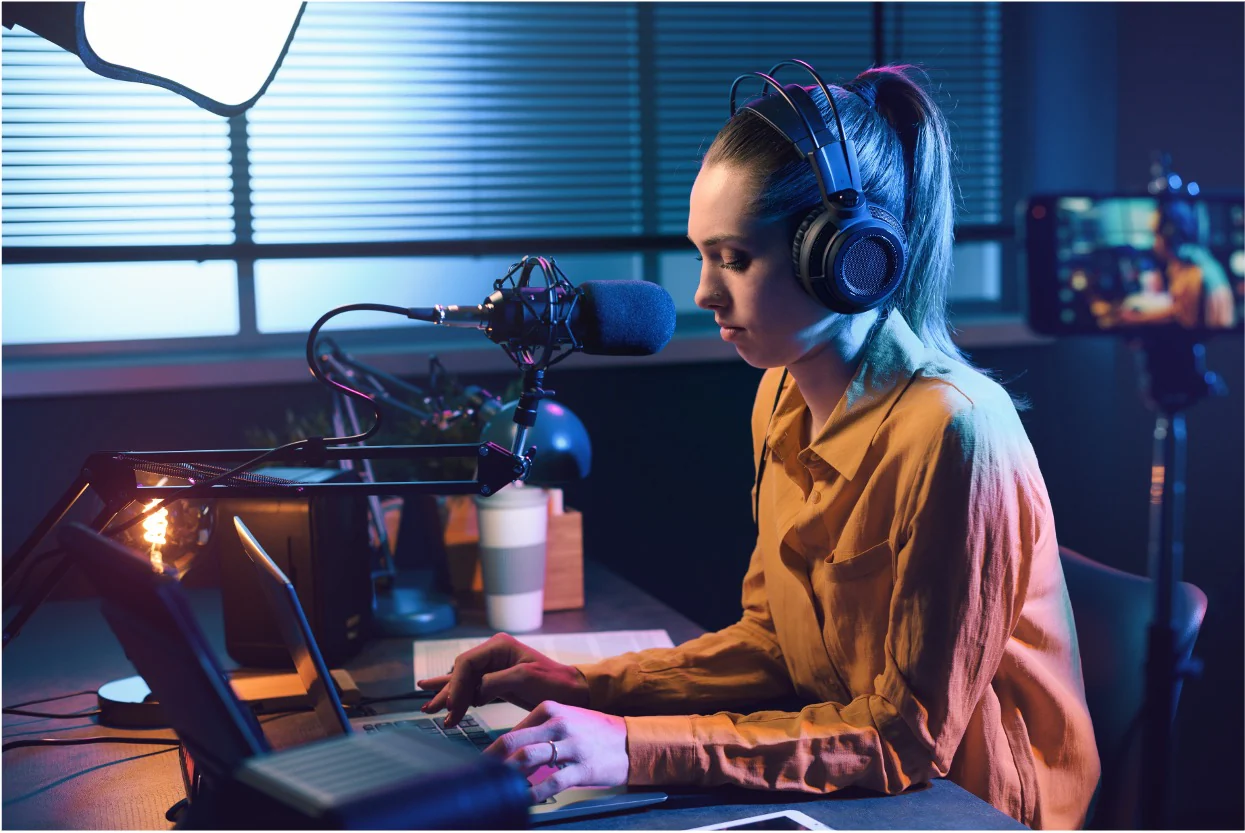
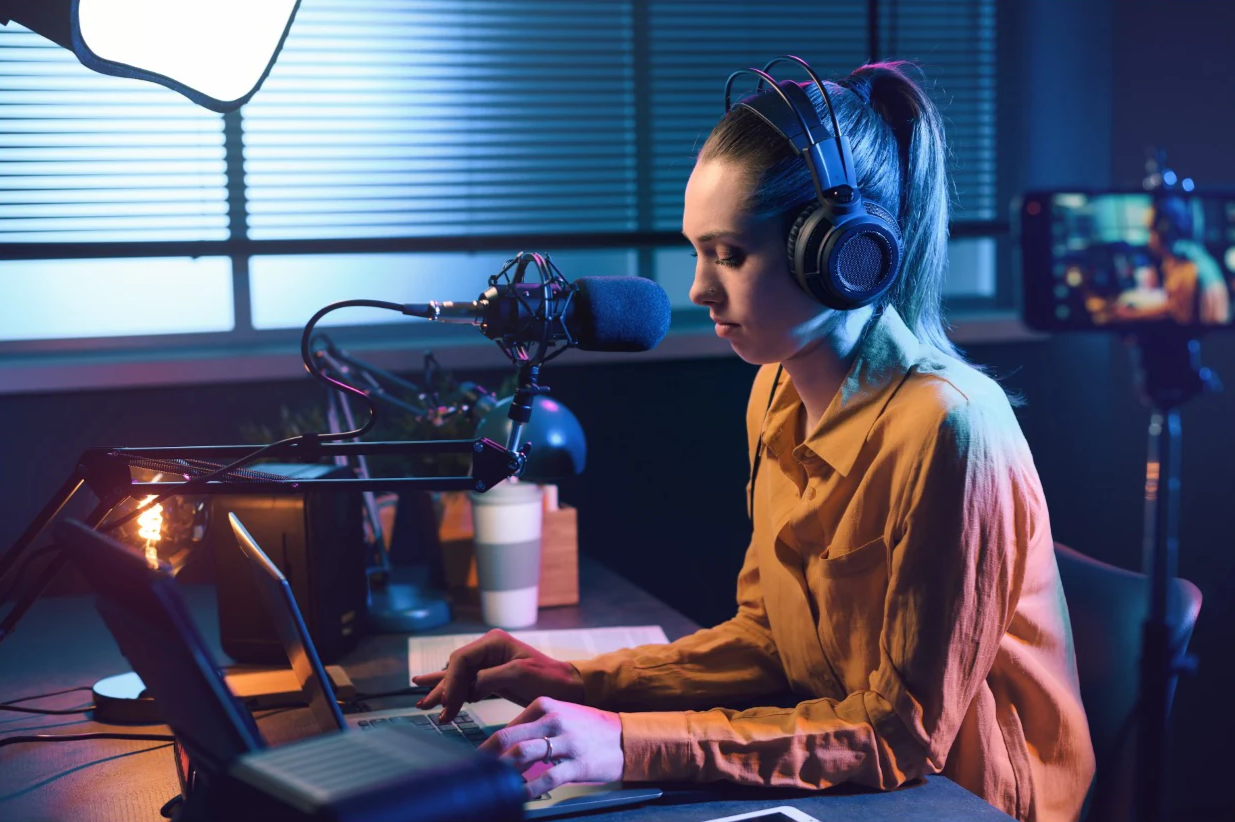
added showcase section to landing page

diff --git a/src/lib/utils.ts b/src/lib/utils.ts
@@ -1,79 +1,77 @@
-// import { shop } from "@/lib/shopify";
-
-export const gql = String.raw;
+export const gql = String.raw
 
 export const baseUrl = process.env.NEXT_PUBLIC_VERCEL_URL
   ? `https://${process.env.NEXT_PUBLIC_VERCEL_URL}`
-  : "http://localhost:3000";
+  : 'http://localhost:3000'
 
 export const validateEnvironmentVariables = () => {
   const requiredEnvironmentVariables = [
-    "SHOPIFY_STOREFRONT_ACCESS_TOKEN",
-    "SHOPIFY_ADMIN_ACCESS_TOKEN",
-    "SHOPIFY_STOREFRONT_ENDPOINT",
-    "SHOPIFY_ADMIN_ENDPOINT",
-  ];
-  const missingEnvironmentVariables = [] as string[];
+    'SHOPIFY_STOREFRONT_ACCESS_TOKEN',
+    'SHOPIFY_ADMIN_ACCESS_TOKEN',
+    'SHOPIFY_STOREFRONT_ENDPOINT',
+    'SHOPIFY_ADMIN_ENDPOINT',
+  ]
+  const missingEnvironmentVariables = [] as string[]
 
   requiredEnvironmentVariables.forEach((envVar) => {
     if (!process.env[envVar]) {
-      missingEnvironmentVariables.push(envVar);
+      missingEnvironmentVariables.push(envVar)
     }
-  });
+  })
 
   if (missingEnvironmentVariables.length) {
     throw new Error(
       `The following environment variables are missing. Your site will not work without them. Read more: https://vercel.com/docs/integrations/shopify#configure-environment-variables\n\n${missingEnvironmentVariables.join(
-        "\n",
+        '\n',
       )}\n`,
-    );
+    )
   }
 
   if (
-    process.env.SHOPIFY_STORE_DOMAIN?.includes("[") ||
-    process.env.SHOPIFY_STORE_DOMAIN?.includes("]")
+    process.env.SHOPIFY_STORE_DOMAIN?.includes('[') ||
+    process.env.SHOPIFY_STORE_DOMAIN?.includes(']')
   ) {
     throw new Error(
-      "Your `SHOPIFY_STORE_DOMAIN` environment variable includes brackets (ie. `[` and / or `]`). Your site will not work with them there. Please remove them.",
-    );
+      'Your `SHOPIFY_STORE_DOMAIN` environment variable includes brackets (ie. `[` and / or `]`). Your site will not work with them there. Please remove them.',
+    )
   }
-};
+}
 
 export function getPath(url: string) {
   const path =
-    url.includes("myshopify.com") ||
-    url.includes("localhost") ||
-    url.includes(process.env.SITE_DOMAIN || "") ||
-    url.includes(process.env.NEXT_PUBLIC_VERCEL_URL || "")
+    url.includes('myshopify.com') ||
+    url.includes('localhost') ||
+    url.includes(process.env.SITE_DOMAIN || '') ||
+    url.includes(process.env.NEXT_PUBLIC_VERCEL_URL || '')
       ? `${new URL(url).pathname}${new URL(url).search}${new URL(url).hash}`
-      : url;
-  return path;
+      : url
+  return path
 }
 
 export async function _fetch({
   domain,
   accessToken,
   accessTokenHeader,
-  cache = "force-cache",
+  cache = 'force-cache',
   headers,
   query,
   tags,
   variables,
 }: {
-  domain: string;
-  accessToken: string;
-  accessTokenHeader: string;
-  cache?: RequestCache;
-  headers?: Record<string, string>;
-  query?: string;
-  tags?: string[];
-  variables?: Record<string, any>;
+  domain: string
+  accessToken: string
+  accessTokenHeader: string
+  cache?: RequestCache
+  headers?: Record<string, string>
+  query?: string
+  tags?: string[]
+  variables?: Record<string, any>
 }) {
   try {
     const result = await fetch(domain, {
-      method: "POST",
+      method: 'POST',
       headers: {
-        "Content-Type": "application/json",
+        'Content-Type': 'application/json',
         [accessTokenHeader]: accessToken,
         ...headers,
       },
@@ -83,22 +81,22 @@ export async function _fetch({
       }),
       cache,
       ...(tags && { next: { tags } }),
-    });
+    })
 
-    const body = await result.json();
+    const body = await result.json()
 
     if (body.errors) {
-      throw body.errors[0];
+      throw body.errors[0]
     }
 
     return {
       status: result.status,
       body,
-    };
+    }
   } catch (e) {
     throw {
       error: e,
       query,
-    };
+    }
   }
 }

diff --git a/src/app/page.tsx b/src/app/page.tsx
@@ -1,7 +1,40 @@
+import { Showcase } from '@/components/common'
+import Link from 'next/link'
+
 export default function RootPage() {
   return (
-    <div className="from-lavender to-white bg-gradient-to-t">
-      <div className="container h-[50vh]"></div>
+    <div>
+      <div className="flex flex-col gap-8 py-8 from-lavender to-white bg-gradient-to-t">
+        <div className="lg:container">
+          <Showcase>
+            <Showcase.Image
+              src="/pages/landing/girl-streaming.webp"
+              alt="girl-streaming"
+            />
+            <Showcase.Body>
+              <Showcase.Title>
+                Elevate Your Voice. <br />
+                Amplify Your Vision.
+              </Showcase.Title>
+              <p>
+                At BlueRidge Recordings, every sound tells a story. Nestled in
+                the heart of audio innovation, we provide passionate creators
+                with the tools to produce pristine podcasts, capture compelling
+                recordings, and stream in high fidelity.
+              </p>
+              <p>
+                Our curated collection of kits, interfaces, and acoustic
+                solutions is designed to elevate your audio projects from the
+                studio to the world. Join us in our quest to bring quality and
+                clarity to every beat, word, and harmony.
+              </p>
+              <Link href="/about" className="primary button mt-3">
+                About Us
+              </Link>
+            </Showcase.Body>
+          </Showcase>
+        </div>
+      </div>
     </div>
   )
 }

diff --git a/src/components/common/showcase.tsx b/src/components/common/showcase.tsx
@@ -1,0 +1,62 @@
+import Image from 'next/image'
+
+export const Showcase = ({
+  children,
+  className,
+}: {
+  children: React.ReactNode
+  className?: string
+}) => (
+  <div
+    className={`flex flex-col lg:flex-row items-center lg:gap-16 gap-8 ${className}`}
+  >
+    {children}
+  </div>
+)
+
+Showcase.Image = ({
+  src,
+  alt,
+  width = 2000,
+  height = 2000,
+  className,
+}: {
+  src: string
+  alt: string
+  width?: number | `${number}`
+  height?: number | `${number}`
+  className?: string
+}) => (
+  <div className={`w-full lg:max-w-[50%] md:max-w-[70%] ${className}`}>
+    <Image
+      priority
+      src={src}
+      alt={alt}
+      width={width}
+      height={height}
+      className="md:rounded-md object-contain"
+    />
+  </div>
+)
+
+Showcase.Title = ({
+  children,
+  className,
+}: {
+  children: React.ReactNode
+  className?: string
+}) => <h1 className={`sm:text-[35px] ${className}`}>{children}</h1>
+
+Showcase.Body = ({
+  children,
+  className,
+}: {
+  children: React.ReactNode
+  className?: string
+}) => (
+  <div
+    className={`container md:px-0 lg:max-w-[50%] md:max-w-[70%] text-left flex flex-col gap-4 ${className}`}
+  >
+    {children}
+  </div>
+)

diff --git a/src/app/globals.css b/src/app/globals.css
@@ -162,6 +162,41 @@
     outline-offset: 0px;
     box-shadow: none;
   }
+
+  .primary.button {
+    outline-color: #141028;
+    outline-offset: 3px;
+    background: linear-gradient(104deg, #141028 60%, #2a283c 60% 100%);
+    background-size: 300% 100%;
+    background-position: 0% center;
+    color: white;
+    transition: background-position 0.4s ease-out;
+  }
+
+  .primary.button:hover {
+    background-position: 100% center;
+    text-decoration: none;
+  }
+
+  .button {
+    display: inline-block;
+    position: relative;
+    width: fit-content;
+    padding: 12px 26px;
+    transition:
+      opacity 0.6s ease,
+      color 0.6s ease,
+      background-position 0.4s ease-out;
+    border-radius: 5px;
+    outline-offset: 1px;
+    font-size: 0.88em;
+    font-weight: 700;
+    line-height: 1.2em;
+    text-align: center;
+    -webkit-appearance: none;
+    appearance: none;
+    word-break: break-word;
+  }
 }
 
 @layer utilities {

diff --git a/src/components/common/button.tsx b/src/components/common/button.tsx
@@ -1,0 +1,18 @@
+'use client'
+
+export function Button({
+  onClick,
+  children,
+  className,
+}: {
+  href?: string
+  onClick?: () => void
+  children?: React.ReactNode
+  className?: string
+}) {
+  return (
+    <button onClick={onClick} className={`${className}`}>
+      {children}
+    </button>
+  )
+}

diff --git a/src/components/common/index.ts b/src/components/common/index.ts
@@ -5,3 +5,5 @@ export * from './payments'
 export * from './newsletter-signup'
 export * from './socials'
 export * from './frosty-overlay'
+export * from './button'
+export * from './showcase'
